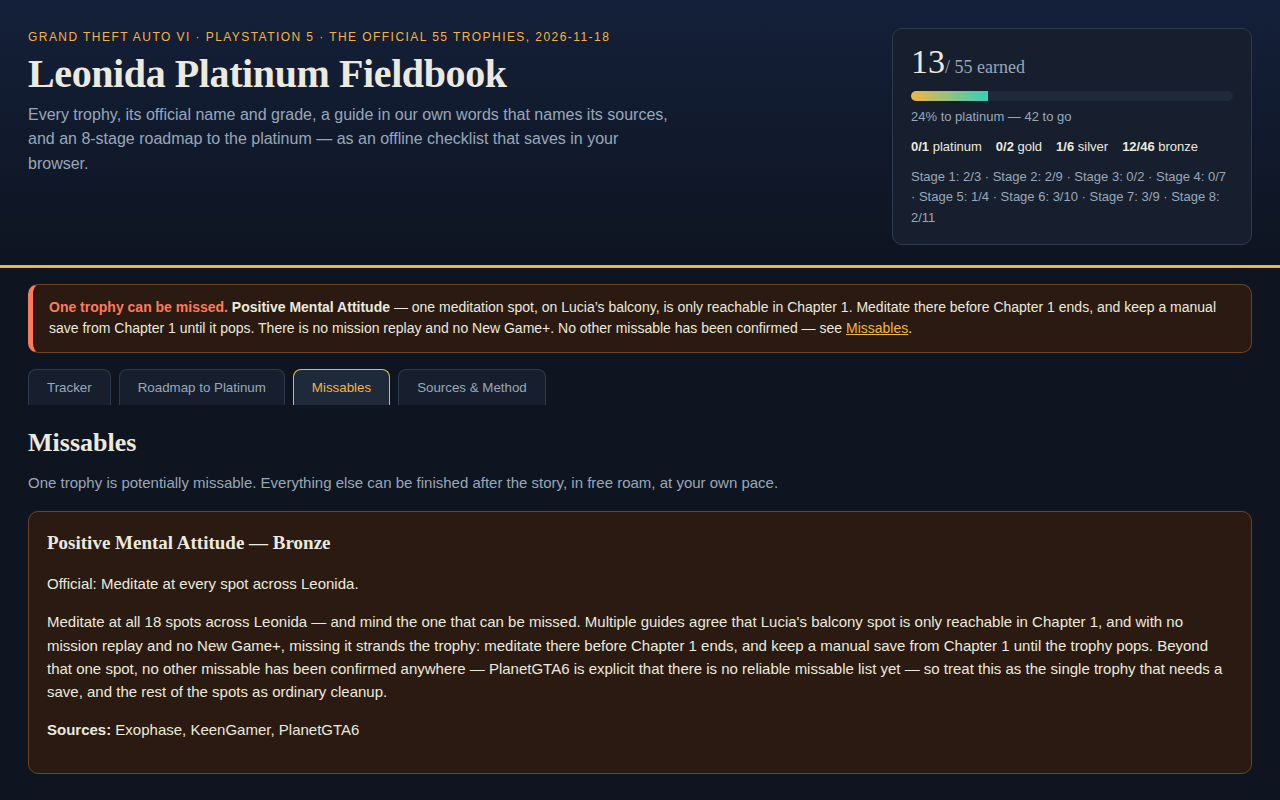
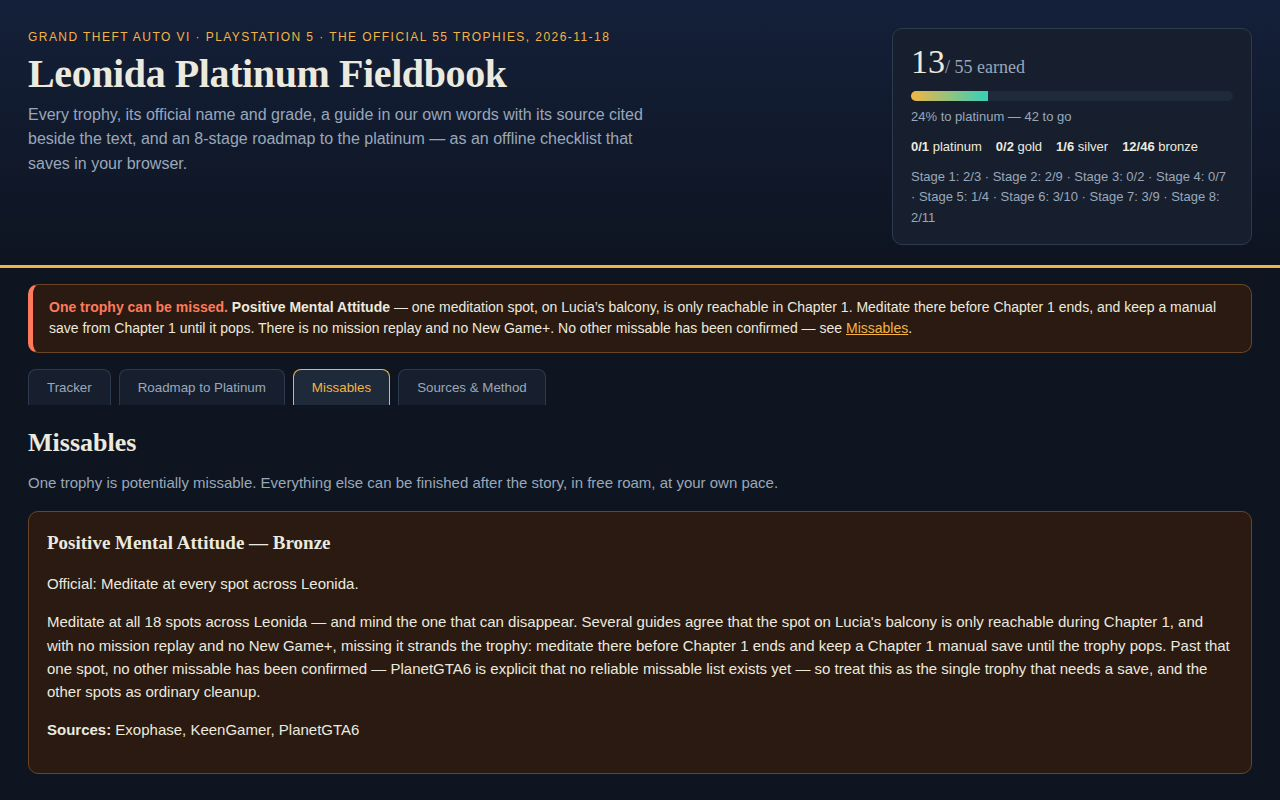
Leonida Platinum Fieldbook V2 — every guide cites its source inline, richer steps, roadmap-first cover

Changed region(s): [[0.0312, 0.75, 0.9688, 0.875], [0.0312, 0.125, 0.5312, 0.2188]]

diff --git a/main.ts b/main.ts
@@ -10,13 +10,35 @@
 // Outside the grader's container, MAKEFUN_OUTPUT_DIR stands in for /output:
 //   mkdir -p out && MAKEFUN_OUTPUT_DIR=out node main.ts
 
-import { cpSync, existsSync, mkdirSync, readdirSync, statSync, writeFileSync } from 'node:fs';
+import { cpSync, existsSync, mkdirSync, readdirSync, readFileSync, statSync, writeFileSync } from 'node:fs';
 import { join } from 'node:path';
 import { fileURLToPath } from 'node:url';
 import { buildDossier } from './vendor/makefun-frontend.ts';
 
 const here = fileURLToPath(new URL('.', import.meta.url));
 const out = process.env.MAKEFUN_OUTPUT_DIR ?? '/output';
+
+// V2 gate: refuse to hand in a bundle whose trophy file is short a
+// trophy, a guide, or a citation. Every guide must name its source
+// beside the text, so a trophy with no source is a broken entry.
+function checkTrophies() {
+  const doc = JSON.parse(readFileSync(join(here, 'app', 'data', 'trophies.json'), 'utf8'));
+  const list = doc.trophies;
+  if (!Array.isArray(list) || list.length !== 55) {
+    throw new Error(`expected 55 trophies, found ${Array.isArray(list) ? list.length : 'none'}`);
+  }
+  const names = new Set();
+  for (const t of list) {
+    if (typeof t.name !== 'string' || !t.name.trim()) throw new Error('a trophy has no name');
+    if (names.has(t.name)) throw new Error(`duplicate trophy name: ${t.name}`);
+    names.add(t.name);
+    if (typeof t.guide !== 'string' || !t.guide.trim()) throw new Error(`trophy ${t.name} has no guide`);
+    if (!Array.isArray(t.sources) || t.sources.length === 0) throw new Error(`trophy ${t.name} cites no source`);
+    if (!Array.isArray(t.steps) || t.steps.length === 0) throw new Error(`trophy ${t.name} has no steps`);
+  }
+  console.log(`trophies checked: 55, each with a guide, steps and at least one cited source`);
+}
+checkTrophies();
 
 function countEntries(dir) {
   let total = 0;
@@ -52,8 +74,9 @@ if (countEntries(join(here, 'app')) > 993) {
 
 // The scorer's own caps (reference/gate.json): only text_max_bytes shapes
 // the bytes; the others refuse an entry the scorer would refuse.
+const dossierPath = join(out, 'dossier.json');
 writeFileSync(
-  join(out, 'dossier.json'),
+  dossierPath,
   buildDossier(out, {
     text_max_bytes: 163840,
     screenshots: { max: 4, max_bytes: 262144 },
@@ -61,4 +84,6 @@ writeFileSync(
     app_max_bytes: 50331648,
   }),
 );
-console.log(`handed in ${shots.length} screenshots, dossier written to ${join(out, 'dossier.json')}`);
+const dossierSize = statSync(dossierPath).size;
+if (dossierSize > 1572864) throw new Error(`dossier.json is ${dossierSize} bytes, over the 1.5 MiB cap`);
+console.log(`handed in ${shots.length} screenshots, dossier written to ${dossierPath} (${dossierSize} bytes, app/ ${countEntries(join(here, 'app'))} entries)`);

diff --git a/app/app.js b/app/app.js
@@ -185,12 +185,13 @@ function renderDetail() {
   const target = fmtTarget(t);
   detailEl.innerHTML = `
     <h2></h2>
+    <h3>Guide — in our own words</h3>
+    <p class="guide-text"></p>
+    <p class="cite-line"></p>
     <p class="official"></p>
     <div class="trophy-badges">${trophyBadges(t)}</div>
     ${target ? `<p class="target">${target}</p>` : ''}
     ${t.missable ? `<p class="warn"><strong>Potentially missable.</strong> One meditation spot — Lucia&rsquo;s balcony in Chapter 1 — disappears after Chapter 1. Meditate there before the chapter ends and keep a Chapter 1 manual save. No mission replay, no New Game+.</p>` : ''}
-    <h3>Guide — in our own words</h3>
-    <p class="guide-text"></p>
     <h3>Steps</h3>
     <ol class="steps"></ol>
     <h3>Sources</h3>
@@ -198,6 +199,20 @@ function renderDetail() {
   detailEl.querySelector('h2').textContent = t.name;
   detailEl.querySelector('.official').textContent = `Official: ${t.description}`;
   detailEl.querySelector('.guide-text').textContent = t.guide;
+  // The citation sits beside the guide, not below the fold: the first
+  // source names where the guide's facts come from, and the full list
+  // follows under Sources. A step with no citation beside it scores
+  // nothing, so the citation is part of the guide itself.
+  const cite = detailEl.querySelector('.cite-line');
+  const first = t.sources[0];
+  cite.replaceChildren();
+  cite.append(document.createTextNode('Source: '));
+  const citeLink = document.createElement('a');
+  citeLink.href = first.url;
+  citeLink.target = '_blank';
+  citeLink.rel = 'noopener';
+  citeLink.textContent = first.name;
+  cite.append(citeLink, document.createTextNode(` — ${first.what}`));
   const steps = detailEl.querySelector('.steps');
   for (const s of t.steps) {
     const li = document.createElement('li');

diff --git a/app/index.html b/app/index.html
@@ -12,7 +12,7 @@
   <div class="masthead-text">
     <p class="eyebrow">Grand Theft Auto VI &middot; PlayStation 5 &middot; The official 55 trophies, 2026-11-18</p>
     <h1>Leonida Platinum Fieldbook</h1>
-    <p class="subtitle">Every trophy, its official name and grade, a guide in our own words that names its sources, and an 8-stage roadmap to the platinum — as an offline checklist that saves in your browser.</p>
+    <p class="subtitle">Every trophy, its official name and grade, a guide in our own words with its source cited beside the text, and an 8-stage roadmap to the platinum — as an offline checklist that saves in your browser.</p>
   </div>
   <section class="progress-card" aria-label="Progress to platinum">
     <p class="progress-big"><span id="earnedCount">0</span><span class="progress-of">/ 55 earned</span></p>
@@ -64,6 +64,7 @@
   </section>
 
   <section id="view-roadmap" class="view" hidden>
+    <p class="roadmap-warn" role="note"><strong>Watch stage 1 first.</strong> Positive Mental Attitude has the one spot that can be missed — Lucia&rsquo;s balcony, reachable only in Chapter 1. Meditate there before Chapter 1 ends and keep a Chapter 1 manual save. No other missable has been confirmed.</p>
     <p class="section-intro">Eight stages, in play order, built from the official trophy descriptions. Story first, strangers second, then collectibles, activities, robberies and money — the open-world oddities and the platinum last.</p>
     <ol id="roadmapStages" class="roadmap"></ol>
   </section>

diff --git a/app/style.css b/app/style.css
@@ -289,6 +289,17 @@ main { padding: 0 28px 28px; }
 .detail p { margin: 0 0 8px; }
 .detail ol { margin: 0 0 8px; padding-left: 20px; }
 .detail li { margin-bottom: 4px; }
+.detail .guide-text { margin-bottom: 4px; }
+.detail .cite-line {
+  margin: 0 0 8px;
+  padding: 6px 10px;
+  background: var(--panel-2);
+  border-left: 3px solid var(--teal);
+  border-radius: 0 6px 6px 0;
+  font-size: 13px;
+  color: var(--muted);
+}
+.detail .cite-line a { font-weight: 700; }
 .detail .warn {
   padding: 10px 12px;
   background: #2a1a12;
@@ -302,6 +313,17 @@ main { padding: 0 28px 28px; }
 .detail .empty { color: var(--muted); }
 
 /* ---- roadmap ---- */
+.roadmap-warn {
+  margin: 0 0 14px;
+  padding: 10px 14px;
+  background: #2a1a12;
+  border: 1px solid #6b4423;
+  border-left: 5px solid var(--coral);
+  border-radius: var(--radius);
+  font-size: 14px;
+  max-width: 900px;
+}
+.roadmap-warn strong { color: var(--coral); }
 .roadmap { margin: 0; padding: 0; list-style: none; display: grid; gap: 14px; }
 .stage {
   padding: 16px 18px;
